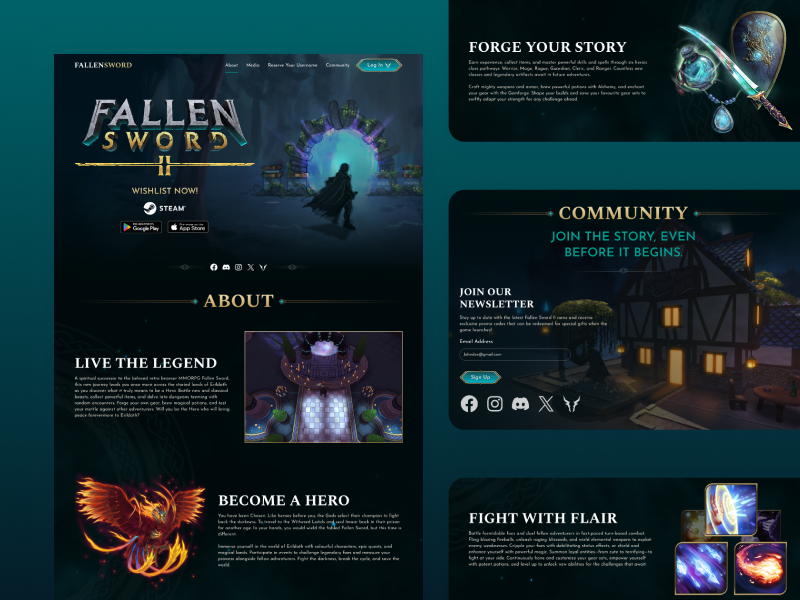
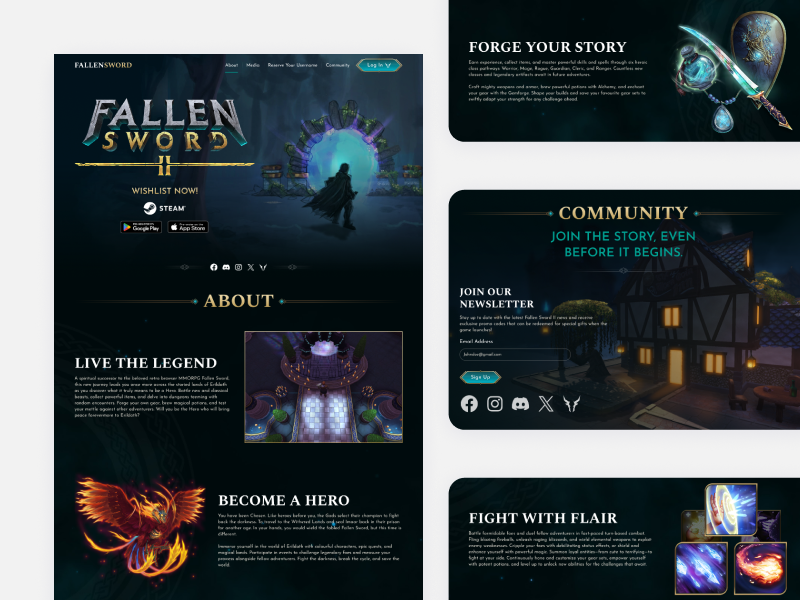
Add growth fund cover, refresh FS2 cover, update work card
- Add dedicated growth-fund-store cover and render it in the case study hero
- Replace FS2 landing page cover with the new export
- Point the growth fund work card at the new cover

Changed region(s): [[0.0, 0.0, 1.0, 1.0]]

diff --git a/app/work/growth-fund-store/page.tsx b/app/work/growth-fund-store/page.tsx
@@ -326,14 +326,34 @@ function Figure({
 function CoverPlaceholder() {
   return (
     <div
-      className="relative w-full h-[280px] md:h-[495px] rounded-[20px] border-[1.5px] border-dashed border-line overflow-hidden mt-6 flex items-center justify-center bg-card-tint"
+      className="relative w-full h-[280px] md:h-[495px] rounded-[20px] border-[1.5px] border-line overflow-hidden mt-6"
       style={{
         background: "linear-gradient(to top, #e0f1fe 0%, rgba(246,251,255,0) 60%)",
       }}
     >
-      <p className="text-ink-faint text-[14px]">
-        Cover image goes here · /figma/growth-fund-store/cover.png
-      </p>
+      <div
+        aria-hidden
+        className="absolute inset-0 rounded-[inherit] card-inset pointer-events-none z-[1]"
+      />
+      {["top-3 left-3", "top-3 right-3", "bottom-3 left-3", "bottom-3 right-3"].map(
+        (pos) => (
+          <span
+            key={pos}
+            aria-hidden
+            className={`absolute ${pos} h-1.5 w-1.5 rounded-full bg-ink-faint/40 z-[2]`}
+          />
+        ),
+      )}
+      <div className="absolute inset-6 rounded-[10px] overflow-hidden">
+        <Image
+          src="/figma/growth-fund-store/cover.png"
+          alt="Godzilla x Kong: Titan Chasers growth fund webshop, with milestone reward cards and a near unlock callout."
+          fill
+          sizes="(max-width: 880px) 100vw, 832px"
+          priority
+          className="object-cover"
+        />
+      </div>
     </div>
   );
 }

diff --git a/components/Hero.tsx b/components/Hero.tsx
@@ -10,7 +10,7 @@ import { HeroHeadline } from "./HeroHeadline";
 const showcaseImages = [
   "/showcase/tactical.png",
   "/figma/fs2/cover.png",
-  "/showcase/tally-dashboard.png",
+  "https://placedog.net/760/570?id=30",
   "https://placedog.net/760/570?id=40",
   "https://placedog.net/760/570?id=50",
 ];

diff --git a/components/MyWork.tsx b/components/MyWork.tsx
@@ -55,7 +55,7 @@ const projects: (Project & { category: Category })[] = [
     title: "Growth Fund and Store Bundles",
     description:
       "Designed a growth fund monetisation feature for two live App Store games, fitting each into its own store and design system, and redesigning Operation New Earth's loyalty level into a header to make room.",
-    image: "/figma/growth-fund-store/gxk-webshop.png",
+    image: "/figma/growth-fund-store/cover.png",
     href: "/work/growth-fund-store",
   },
   {